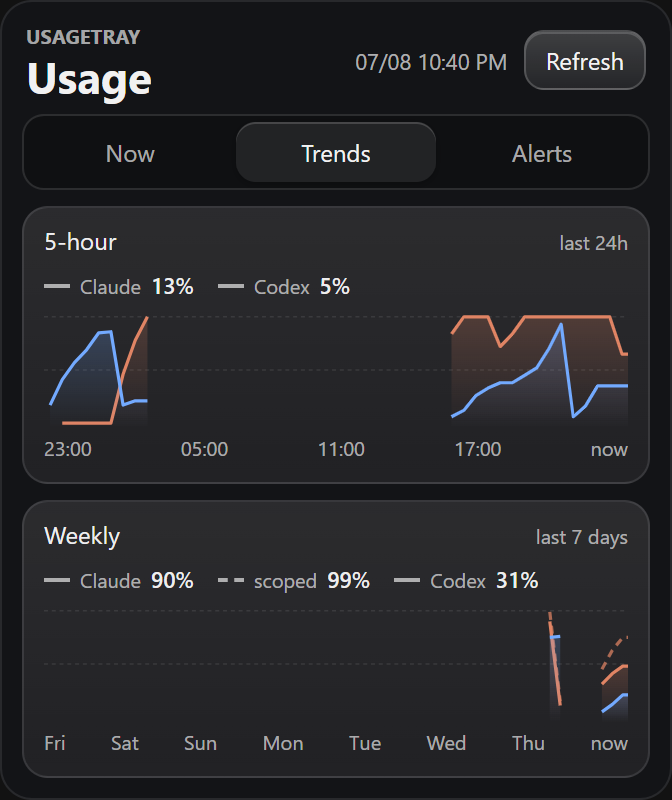
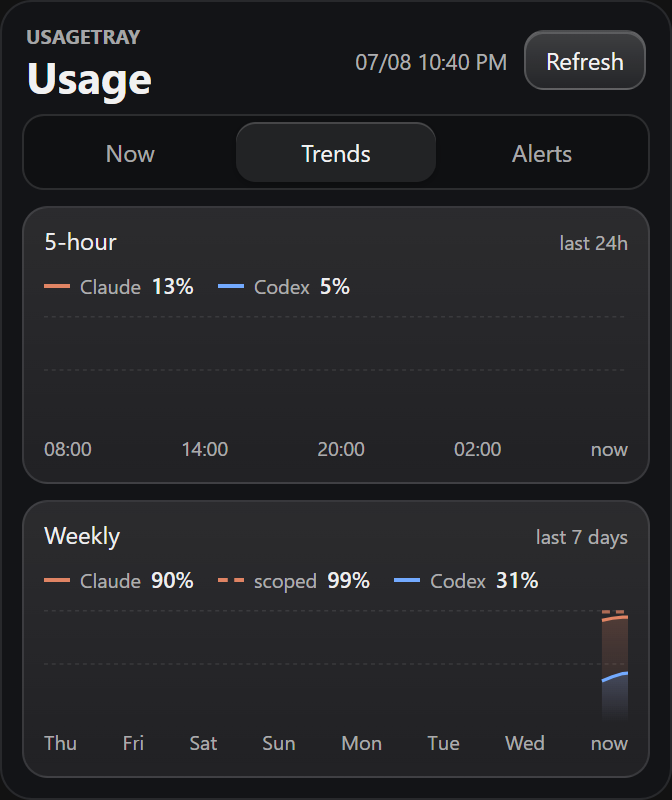
Fix Trends legend color override and tray tooltip length overflow

diff --git a/app/src/main.tsx b/app/src/main.tsx
@@ -128,20 +128,20 @@ function getContextWindow(agent?: AgentResult): string | null {
   return formatPercent(clampPercent(remaining));
 }
 
+// Windows caps tray tooltips at roughly 64 characters; keep each line short.
 function formatResetIn(resetAt: string | null | undefined): string {
   const at = resetAt ? Date.parse(resetAt) : Number.NaN;
   if (!Number.isFinite(at)) return "-";
   let minutes = Math.max(0, Math.round((at - Date.now()) / 60_000));
   const hours = Math.floor(minutes / 60);
   minutes %= 60;
-  if (hours > 0) return `${hours} hr ${String(minutes).padStart(2, "0")} min`;
-  return `${minutes} min`;
+  return `${hours}h${String(minutes).padStart(2, "0")}m`;
 }
 
 function traySummary(snapshot: CollectorSnapshot): string {
   const line = (agent: string, label: string) => {
     const window = snapshot.agents[agent]?.windows.five_hour;
-    return `${label} resets in ${formatResetIn(window?.reset_at)}  ${formatPercent(window?.used_percent)}`;
+    return `${label} ${formatPercent(window?.used_percent)} · ${formatResetIn(window?.reset_at)}`;
   };
   return `5-hour\n${line("claude", "Claude")}\n${line("codex", "Codex")}`;
 }
@@ -303,7 +303,7 @@ function TrendChart({
         {series.map((item) => (
           <span key={item.label} className={item.className}>
             <i className={item.dashed ? "dashed" : ""} />
-            {item.label}
+            <b className="trend-name">{item.label}</b>
             <strong>{formatPercent(item.current)}</strong>
           </span>
         ))}

diff --git a/app/src/styles.css b/app/src/styles.css
@@ -363,9 +363,13 @@ h2 {
   display: flex;
   align-items: center;
   gap: 5px;
-  color: rgba(255, 255, 255, 0.62);
   font-size: 10px;
   font-variant-numeric: tabular-nums;
+}
+
+.trend-legend .trend-name {
+  color: rgba(255, 255, 255, 0.62);
+  font-weight: 400;
 }
 
 .trend-legend i {
@@ -548,7 +552,7 @@ h2 {
     stroke: rgba(15, 23, 42, 0.18);
   }
 
-  .trend-legend > span,
+  .trend-legend .trend-name,
   .trend-ticks {
     color: rgba(30, 31, 33, 0.6);
   }

diff --git a/app/src-tauri/src/lib.rs b/app/src-tauri/src/lib.rs
@@ -317,6 +317,7 @@ fn parse_iso_to_epoch(value: &str) -> Option<i64> {
     Some(days_from_civil(year, month, day) * 86400 + hour * 3600 + minute * 60 + second - offset_seconds)
 }
 
+// Windows caps tray tooltips at roughly 64 characters; keep each line short.
 fn tooltip_summary(payload: &serde_json::Value) -> String {
     fn line(payload: &serde_json::Value, agent: &str, label: &str) -> String {
         let window = &payload["agents"][agent]["windows"]["five_hour"];
@@ -332,17 +333,11 @@ fn tooltip_summary(payload: &serde_json::Value) -> String {
                     .duration_since(std::time::UNIX_EPOCH)
                     .map(|elapsed| elapsed.as_secs() as i64)
                     .unwrap_or(epoch);
-                let mut minutes = ((epoch - now).max(0) + 30) / 60;
-                let hours = minutes / 60;
-                minutes %= 60;
-                if hours > 0 {
-                    format!("{hours} hr {minutes:02} min")
-                } else {
-                    format!("{minutes} min")
-                }
+                let minutes = ((epoch - now).max(0) + 30) / 60;
+                format!("{}h{:02}m", minutes / 60, minutes % 60)
             })
             .unwrap_or_else(|| "-".to_string());
-        format!("{label} resets in {reset}  {used}")
+        format!("{label} {used} · {reset}")
     }
 
     format!(

diff --git a/STATUS.md b/STATUS.md
@@ -861,3 +861,23 @@ successful send). Test added (27 total).
   now preserves newlines.
 - History only spans since 07/09, so the weekly chart stays mostly empty
   until a full week of data accumulates - expected, not a bug.
+
+### 37. Trend legend color CSS specificity bug, tray tooltip length fix (2026-07-10, same day)
+
+User screenshot after installing the Trends redesign showed two bugs:
+
+- Legend swatches/lines rendered colorless (white/gray) instead of
+  Claude-coral / Codex-blue. Root cause: `.trend-legend > span` (specificity
+  0,1,1) was overriding the color set by `.trend-claude`/`.trend-codex`
+  (specificity 0,1,0) on the same span, since both are direct rules on the
+  element and the combinator selector wins regardless of source order. Fixed
+  by wrapping the label text in `<b className="trend-name">` and scoping the
+  muted-gray override to that class instead of the whole span, leaving the
+  span itself (and its icon + inherited SVG currentColor) tinted by
+  trend-claude/trend-codex as intended.
+- Tray tooltip hover showed "Codex resets in 2 hr 22" with the rest cut off.
+  Windows caps NOTIFYICONDATA tooltips at roughly 64 characters; the
+  requested "resets in X hr XX min  XX%" wording hit ~75 chars worst case
+  across 3 lines. Reformatted to a compact `Claude 91% · 4h06m` style
+  (still 3 lines: header + one per agent), worst case ~45 chars, implemented
+  identically in both `traySummary()` (TS) and `tooltip_summary()` (Rust).